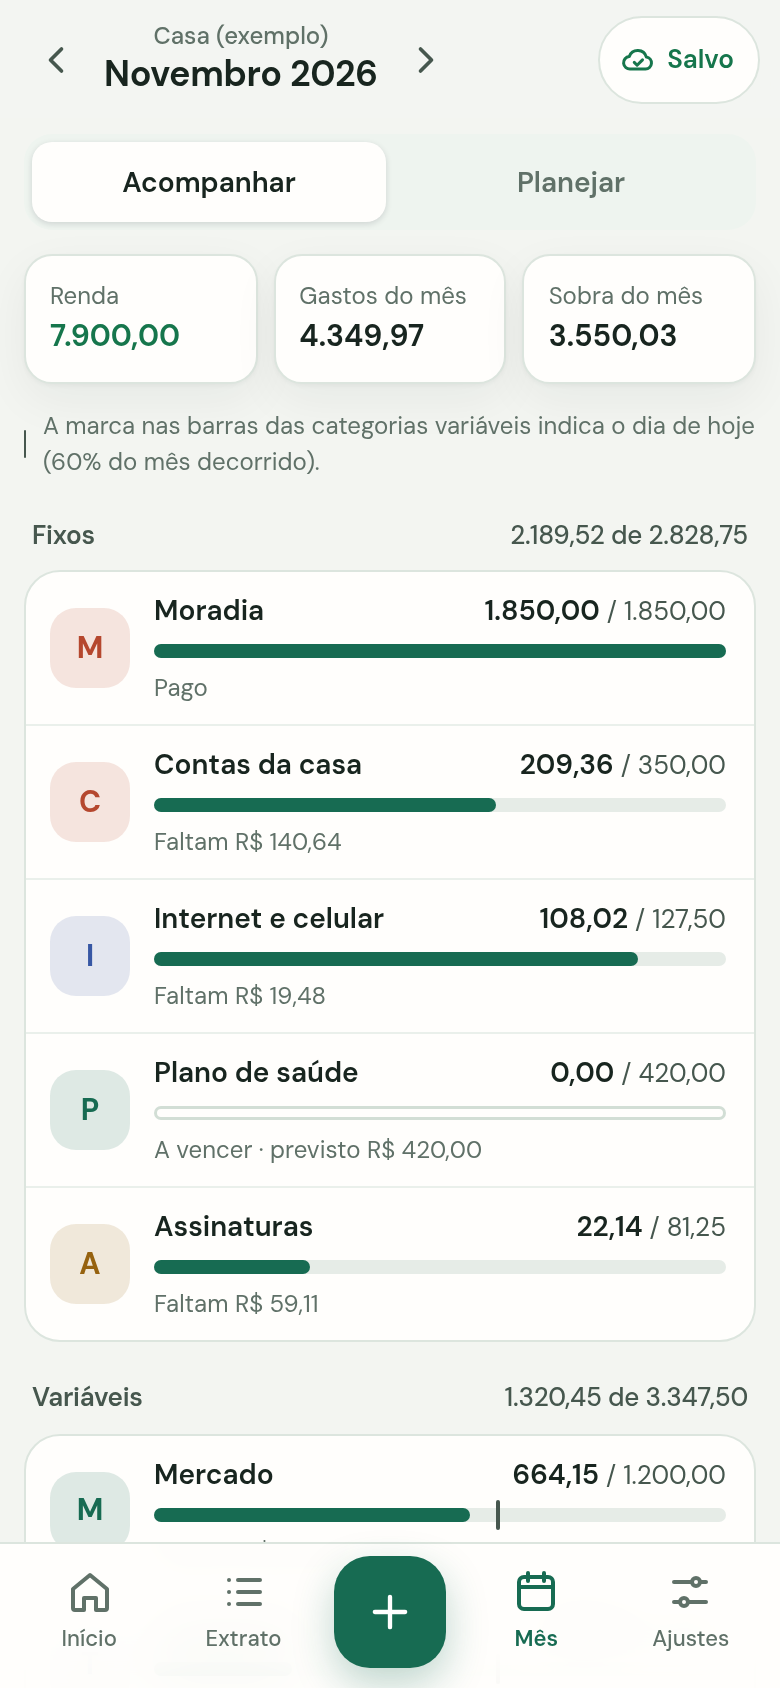
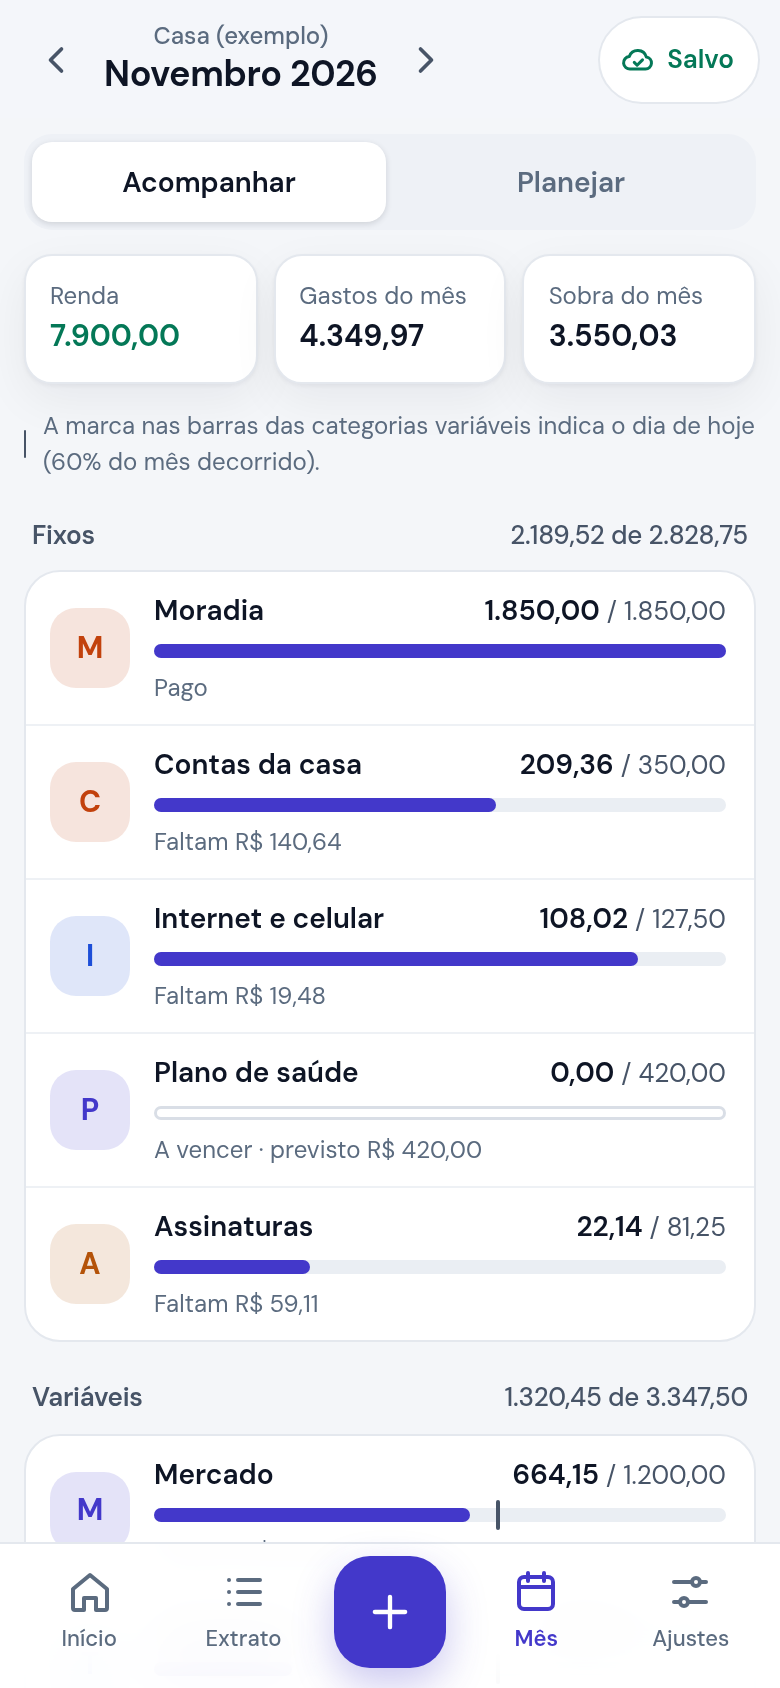
2.6.1: restaura tema azul e ícone

diff --git a/src/Estilos.html b/src/Estilos.html
@@ -3,79 +3,79 @@
    Tokens — contraste orientado a WCAG AA nos dois temas
    ===================================================================== */
 :root {
-  --fundo: #F3F5F1; --cartao: #FFFEFC; --cartao-2: #F8FAF7;
-  --tinta: #18251F; --tinta-2: #46574E; --tinta-3: #607168;
-  --linha: #DCE5DE; --linha-2: #EAF0EB; --trilho: #E6ECE7;
-  --chip: #EEF4EF; --chip-borda: #D2DED5;
-  --acento: #176B52; --acento-tinta: #FFFFFF; --acento-fraco: #E6F2EB; --acento-forte: #14513F;
-  --gasto: #336C83;
-  --calor-acima: #C55D3C; --calor-abaixo: #648CA6;
-  --ok: #16764C; --acima: #B5472E; --atencao: #96620F;
-  --aviso-fundo: #FFF5E6; --aviso-borda: #F1D8AD; --aviso-tinta: #80520B;
-  --ok-fundo: #E9F5ED; --ok-borda: #B9DEC6; --ok-tinta: #155A3B;
+  --fundo: #F4F6F9; --cartao: #FFFFFF; --cartao-2: #F8FAFC;
+  --tinta: #0E1525; --tinta-2: #475467; --tinta-3: #5B6B7F;
+  --linha: #E4E8EE; --linha-2: #EEF1F5; --trilho: #EAEEF3;
+  --chip: #EEF1F6; --chip-borda: #D9DEE6;
+  --acento: #4338CA; --acento-tinta: #FFFFFF; --acento-fraco: #EEF0FF; --acento-forte: #3730A3;
+  --gasto: #4338CA;
+  --calor-acima: #EA580C; --calor-abaixo: #4F46E5;
+  --ok: #047857; --acima: #C2410C; --atencao: #B45309;
+  --aviso-fundo: #FFF5E6; --aviso-borda: #F6DDB5; --aviso-tinta: #8A4B08;
+  --ok-fundo: #ECFDF5; --ok-borda: #BBF0D6; --ok-tinta: #065F46;
   --perigo: #B42318;
-  --nav: rgba(255, 254, 252, .94); --veu: rgba(18, 29, 23, .46);
-  --toast: #18251F; --toast-tinta: #FFFFFF; --toast-acao: #A8E4C5;
-  --sombra: 0 1px 2px rgba(24, 37, 31, .04), 0 8px 24px rgba(24, 37, 31, .055);
-  --sombra-forte: 0 18px 50px rgba(13, 26, 19, .22);
+  --nav: rgba(255, 255, 255, .94); --veu: rgba(10, 14, 22, .45);
+  --toast: #0E1525; --toast-tinta: #FFFFFF; --toast-acao: #A5B4FC;
+  --sombra: 0 1px 2px rgba(14, 21, 37, .05), 0 8px 24px rgba(14, 21, 37, .06);
+  --sombra-forte: 0 18px 50px rgba(14, 21, 37, .22);
   --raio: 18px; --raio-m: 13px; --raio-p: 9px;
   --fonte: 'DM Sans', system-ui, -apple-system, 'Segoe UI', sans-serif;
   color-scheme: light;
 }
 @media (prefers-color-scheme: dark) {
   :root:not([data-tema="claro"]) {
-    --fundo: #0E1511; --cartao: #151E19; --cartao-2: #1A2720;
-    --tinta: #EAF1EB; --tinta-2: #B7C6BB; --tinta-3: #91A397;
-    --linha: #2A3930; --linha-2: #202D25; --trilho: #2B3A31;
-    --chip: #1D2A23; --chip-borda: #35463A;
-    --acento: #65C99A; --acento-tinta: #0C1710; --acento-fraco: #19382A; --acento-forte: #9AE0B9;
-    --gasto: #7AB6CC;
-    --calor-acima: #F09978; --calor-abaixo: #8FBED4;
-    --ok: #66D3A0; --acima: #FFA184; --atencao: #F1C36D;
-    --aviso-fundo: #302514; --aviso-borda: #59431D; --aviso-tinta: #F1CB80;
-    --ok-fundo: #142D21; --ok-borda: #235238; --ok-tinta: #91DEB1;
-    --perigo: #FF8B80;
-    --nav: rgba(21, 30, 25, .94); --veu: rgba(0, 0, 0, .62);
-    --toast: #EAF1EB; --toast-tinta: #18251F; --toast-acao: #14513F;
-    --sombra: 0 1px 2px rgba(0, 0, 0, .28), 0 8px 24px rgba(0, 0, 0, .2);
+    --fundo: #0B0F17; --cartao: #131A26; --cartao-2: #18202E;
+    --tinta: #E8ECF3; --tinta-2: #B3BDCC; --tinta-3: #8C98AA;
+    --linha: #232C3B; --linha-2: #1C2433; --trilho: #232D3C;
+    --chip: #1C2433; --chip-borda: #2C3646;
+    --acento: #9AA3FF; --acento-tinta: #0B0F17; --acento-fraco: #1E2340; --acento-forte: #C7CCFF;
+    --gasto: #9AA3FF;
+    --calor-acima: #FB923C; --calor-abaixo: #818CF8;
+    --ok: #34D399; --acima: #FB923C; --atencao: #FBBF24;
+    --aviso-fundo: #2A1F0E; --aviso-borda: #4A3615; --aviso-tinta: #F5C67A;
+    --ok-fundo: #0D2A20; --ok-borda: #15402F; --ok-tinta: #6EE7B7;
+    --perigo: #F87171;
+    --nav: rgba(19, 26, 38, .94); --veu: rgba(0, 0, 0, .6);
+    --toast: #E8ECF3; --toast-tinta: #0E1525; --toast-acao: #3730A3;
+    --sombra: 0 1px 2px rgba(0, 0, 0, .3), 0 8px 24px rgba(0, 0, 0, .3);
     --sombra-forte: 0 18px 50px rgba(0, 0, 0, .55);
     color-scheme: dark;
   }
 }
 :root[data-tema="escuro"] {
-  --fundo: #0E1511; --cartao: #151E19; --cartao-2: #1A2720;
-  --tinta: #EAF1EB; --tinta-2: #B7C6BB; --tinta-3: #91A397;
-  --linha: #2A3930; --linha-2: #202D25; --trilho: #2B3A31;
-  --chip: #1D2A23; --chip-borda: #35463A;
-  --acento: #65C99A; --acento-tinta: #0C1710; --acento-fraco: #19382A; --acento-forte: #9AE0B9;
-  --gasto: #7AB6CC;
-  --calor-acima: #F09978; --calor-abaixo: #8FBED4;
-  --ok: #66D3A0; --acima: #FFA184; --atencao: #F1C36D;
-  --aviso-fundo: #302514; --aviso-borda: #59431D; --aviso-tinta: #F1CB80;
-  --ok-fundo: #142D21; --ok-borda: #235238; --ok-tinta: #91DEB1;
-  --perigo: #FF8B80;
-  --nav: rgba(21, 30, 25, .94); --veu: rgba(0, 0, 0, .62);
-  --toast: #EAF1EB; --toast-tinta: #18251F; --toast-acao: #14513F;
-  --sombra: 0 1px 2px rgba(0, 0, 0, .28), 0 8px 24px rgba(0, 0, 0, .2);
+  --fundo: #0B0F17; --cartao: #131A26; --cartao-2: #18202E;
+  --tinta: #E8ECF3; --tinta-2: #B3BDCC; --tinta-3: #8C98AA;
+  --linha: #232C3B; --linha-2: #1C2433; --trilho: #232D3C;
+  --chip: #1C2433; --chip-borda: #2C3646;
+  --acento: #9AA3FF; --acento-tinta: #0B0F17; --acento-fraco: #1E2340; --acento-forte: #C7CCFF;
+  --gasto: #9AA3FF;
+  --calor-acima: #FB923C; --calor-abaixo: #818CF8;
+  --ok: #34D399; --acima: #FB923C; --atencao: #FBBF24;
+  --aviso-fundo: #2A1F0E; --aviso-borda: #4A3615; --aviso-tinta: #F5C67A;
+  --ok-fundo: #0D2A20; --ok-borda: #15402F; --ok-tinta: #6EE7B7;
+  --perigo: #F87171;
+  --nav: rgba(19, 26, 38, .94); --veu: rgba(0, 0, 0, .6);
+  --toast: #E8ECF3; --toast-tinta: #0E1525; --toast-acao: #3730A3;
+  --sombra: 0 1px 2px rgba(0, 0, 0, .3), 0 8px 24px rgba(0, 0, 0, .3);
   --sombra-forte: 0 18px 50px rgba(0, 0, 0, .55);
   color-scheme: dark;
 }
 
 /* Cores das categorias (escolhidas pelo id; no escuro, versões claras) */
-.cor-0 { --c: #176B52; } .cor-1 { --c: #176B87; } .cor-2 { --c: #B5472E; } .cor-3 { --c: #3757A4; } .cor-4 { --c: #A23A5B; }
-.cor-5 { --c: #96620F; } .cor-6 { --c: #6941A5; } .cor-7 { --c: #117C76; } .cor-8 { --c: #8B3F8F; } .cor-9 { --c: #5B7C28; }
+.cor-0 { --c: #4338CA; } .cor-1 { --c: #047857; } .cor-2 { --c: #C2410C; } .cor-3 { --c: #1D4ED8; } .cor-4 { --c: #BE123C; }
+.cor-5 { --c: #B45309; } .cor-6 { --c: #6D28D9; } .cor-7 { --c: #0F766E; } .cor-8 { --c: #A21CAF; } .cor-9 { --c: #4D7C0F; }
 @media (prefers-color-scheme: dark) {
-  :root:not([data-tema="claro"]) .cor-0 { --c: #67D4A2; } :root:not([data-tema="claro"]) .cor-1 { --c: #74C4DD; }
-  :root:not([data-tema="claro"]) .cor-2 { --c: #FDB08A; } :root:not([data-tema="claro"]) .cor-3 { --c: #9BB4FF; }
-  :root:not([data-tema="claro"]) .cor-4 { --c: #F5A3BC; } :root:not([data-tema="claro"]) .cor-5 { --c: #EAC56C; }
-  :root:not([data-tema="claro"]) .cor-6 { --c: #C4A5F2; } :root:not([data-tema="claro"]) .cor-7 { --c: #68D6C9; }
-  :root:not([data-tema="claro"]) .cor-8 { --c: #E5A6E5; } :root:not([data-tema="claro"]) .cor-9 { --c: #B8D77B; }
+  :root:not([data-tema="claro"]) .cor-0 { --c: #A5B4FC; } :root:not([data-tema="claro"]) .cor-1 { --c: #6EE7B7; }
+  :root:not([data-tema="claro"]) .cor-2 { --c: #FDBA74; } :root:not([data-tema="claro"]) .cor-3 { --c: #93C5FD; }
+  :root:not([data-tema="claro"]) .cor-4 { --c: #FDA4AF; } :root:not([data-tema="claro"]) .cor-5 { --c: #FCD34D; }
+  :root:not([data-tema="claro"]) .cor-6 { --c: #C4B5FD; } :root:not([data-tema="claro"]) .cor-7 { --c: #5EEAD4; }
+  :root:not([data-tema="claro"]) .cor-8 { --c: #F0ABFC; } :root:not([data-tema="claro"]) .cor-9 { --c: #BEF264; }
 }
-:root[data-tema="escuro"] .cor-0 { --c: #67D4A2; } :root[data-tema="escuro"] .cor-1 { --c: #74C4DD; }
-:root[data-tema="escuro"] .cor-2 { --c: #FDB08A; } :root[data-tema="escuro"] .cor-3 { --c: #9BB4FF; }
-:root[data-tema="escuro"] .cor-4 { --c: #F5A3BC; } :root[data-tema="escuro"] .cor-5 { --c: #EAC56C; }
-:root[data-tema="escuro"] .cor-6 { --c: #C4A5F2; } :root[data-tema="escuro"] .cor-7 { --c: #68D6C9; }
-:root[data-tema="escuro"] .cor-8 { --c: #E5A6E5; } :root[data-tema="escuro"] .cor-9 { --c: #B8D77B; }
+:root[data-tema="escuro"] .cor-0 { --c: #A5B4FC; } :root[data-tema="escuro"] .cor-1 { --c: #6EE7B7; }
+:root[data-tema="escuro"] .cor-2 { --c: #FDBA74; } :root[data-tema="escuro"] .cor-3 { --c: #93C5FD; }
+:root[data-tema="escuro"] .cor-4 { --c: #FDA4AF; } :root[data-tema="escuro"] .cor-5 { --c: #FCD34D; }
+:root[data-tema="escuro"] .cor-6 { --c: #C4B5FD; } :root[data-tema="escuro"] .cor-7 { --c: #5EEAD4; }
+:root[data-tema="escuro"] .cor-8 { --c: #F0ABFC; } :root[data-tema="escuro"] .cor-9 { --c: #BEF264; }
 
 /* =====================================================================
    Base

diff --git a/README.md b/README.md
@@ -13,7 +13,7 @@
 </p>
 
 <p align="center">
-  <a href="CHANGELOG.md"><img alt="Versão" src="https://img.shields.io/github/package-json/v/bsdesenv/bsdesenv-financas?style=flat-square&color=176B52&label=vers%C3%A3o"></a>
+  <a href="CHANGELOG.md"><img alt="Versão" src="https://img.shields.io/github/package-json/v/bsdesenv/bsdesenv-financas?style=flat-square&color=4338CA&label=vers%C3%A3o"></a>
   <a href="LICENSE"><img alt="Licença MIT" src="https://img.shields.io/github/license/bsdesenv/bsdesenv-financas?style=flat-square&color=047857&label=licen%C3%A7a"></a>
   <img alt="Google Sheets" src="https://img.shields.io/badge/Google%20Sheets-34A853?style=flat-square&logo=googlesheets&logoColor=white">
   <img alt="Apps Script" src="https://img.shields.io/badge/Apps%20Script-4285F4?style=flat-square&logo=googleappsscript&logoColor=white">
@@ -46,7 +46,9 @@
 - **Planilha anual mais fácil de navegar no celular:** rolagem indicada, categorias fixas e acesso por teclado.
 - **Planejamento mais enxuto:** a explicação dos cálculos fica disponível para expandir sem ocupar a tela toda.
 
-As regras financeiras permanecem iguais. Veja os detalhes no [changelog](CHANGELOG.md#260--2026-11-22) e no guia [Como usar](docs/USAR.md).
+**Atualização 2.6.1:** o tema azul/índigo e o ícone original voltaram, mantendo o layout novo.
+
+As regras financeiras permanecem iguais. Veja os detalhes no [changelog](CHANGELOG.md#261--2026-11-22) e no guia [Como usar](docs/USAR.md).
 
 ## Comece em 10 minutos
 

diff --git a/CHANGELOG.md b/CHANGELOG.md
@@ -1,5 +1,11 @@
 # Changelog
 
+## 2.6.1 — 2026-11-22
+
+### Mudou
+- **Tema azul de volta.** O acento principal volta ao índigo original, com superfícies frias e o mapa de calor nas cores anteriores.
+- **Ícone azul.** O ícone do app e as capturas foram atualizados para a paleta azul.
+
 ## 2.6.0 — 2026-11-22
 
 ### Novo
